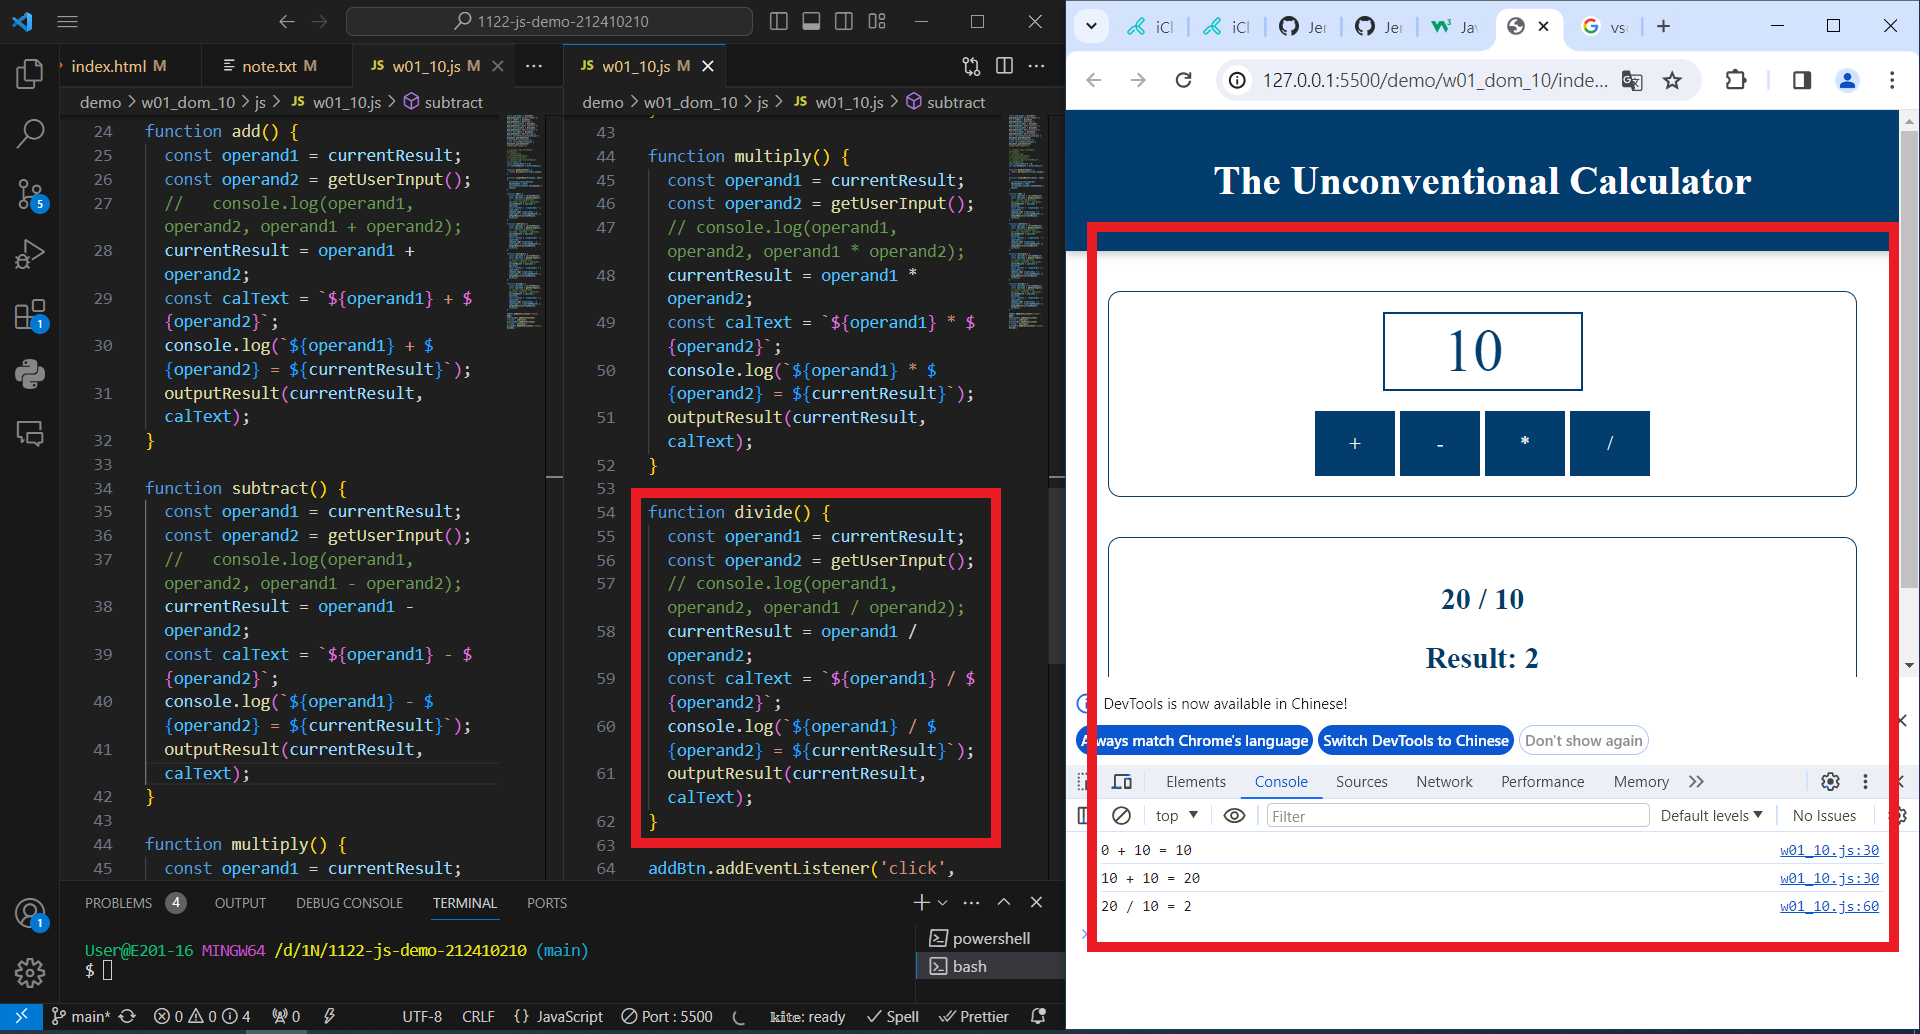
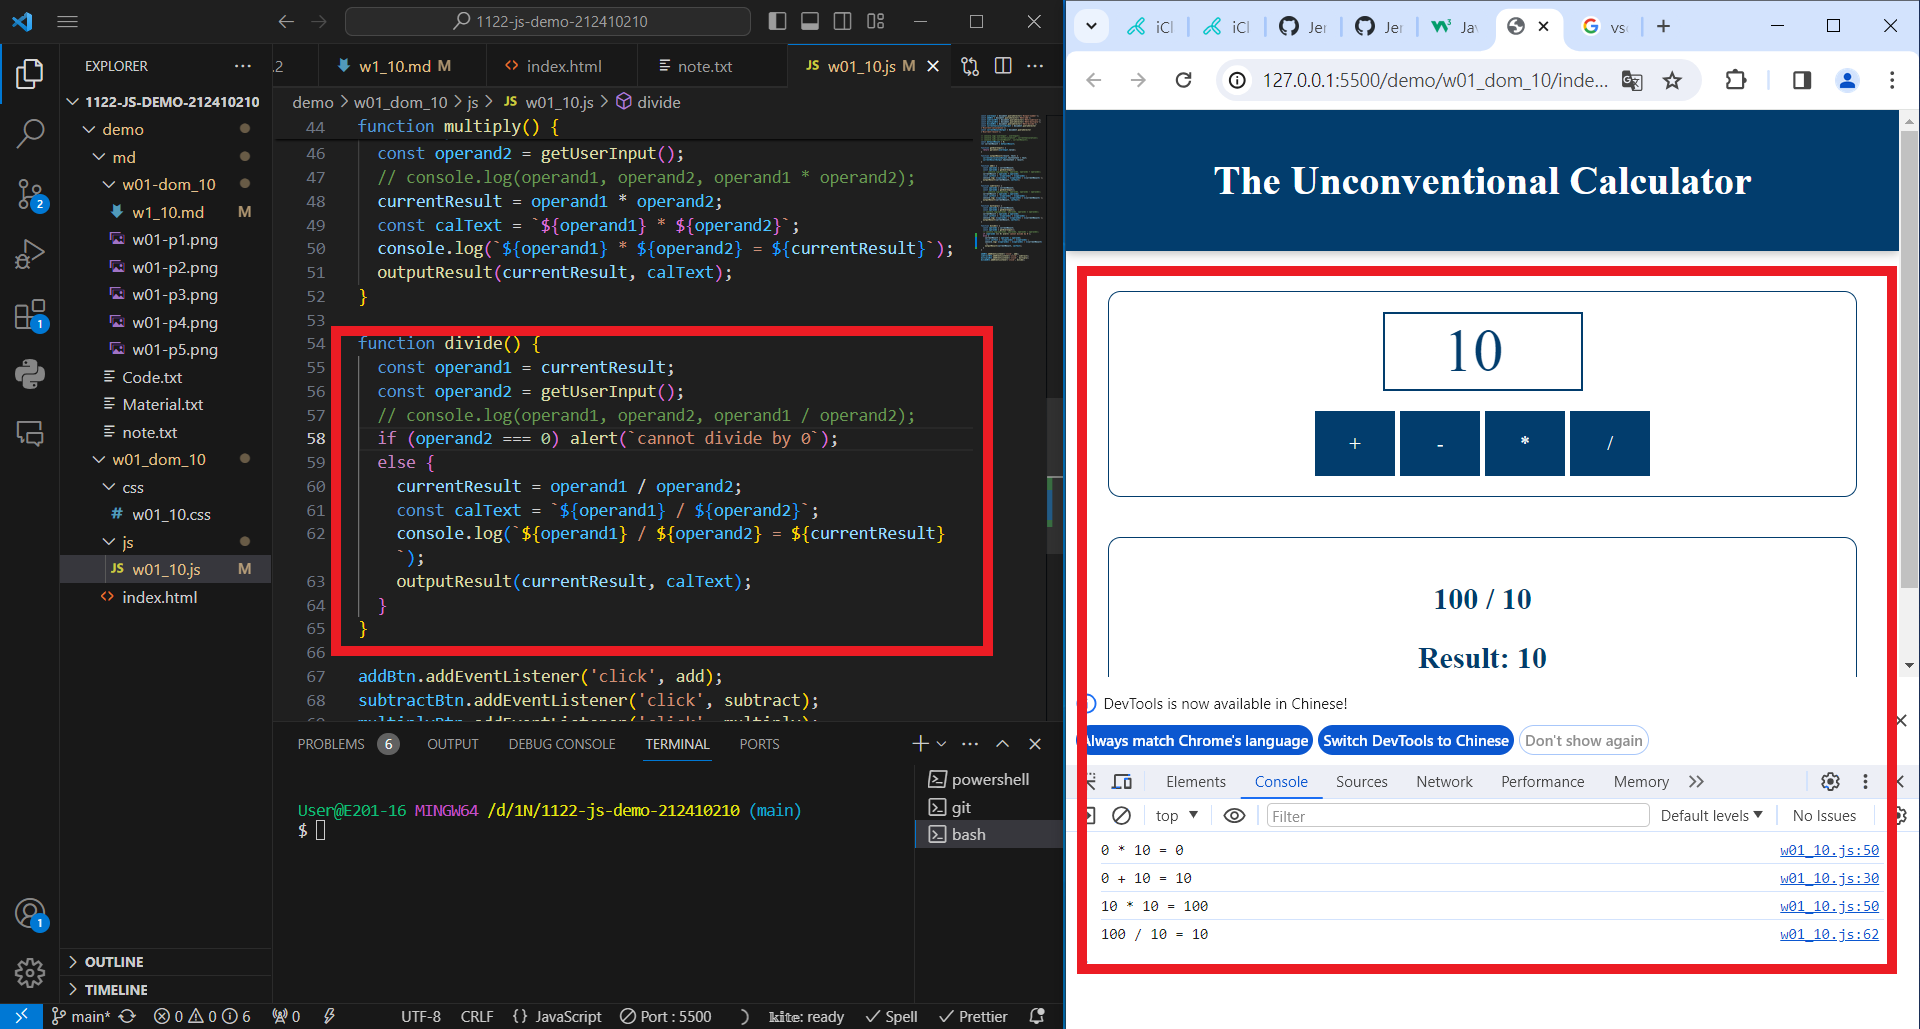
W01-P2: implement add function

diff --git a/demo/w01_dom_10/js/w01_10.js b/demo/w01_dom_10/js/w01_10.js
@@ -55,10 +55,13 @@ function divide() {
   const operand1 = currentResult;
   const operand2 = getUserInput();
   // console.log(operand1, operand2, operand1 / operand2);
-  currentResult = operand1 / operand2;
-  const calText = `${operand1} / ${operand2}`;
-  console.log(`${operand1} / ${operand2} = ${currentResult}`);
-  outputResult(currentResult, calText);
+  if (operand2 === 0) alert(`cannot divide by 0`);
+  else {
+    currentResult = operand1 / operand2;
+    const calText = `${operand1} / ${operand2}`;
+    console.log(`${operand1} / ${operand2} = ${currentResult}`);
+    outputResult(currentResult, calText);
+  }
 }
 
 addBtn.addEventListener('click', add);

diff --git a/demo/md/w01-dom_10/w1_10.md b/demo/md/w01-dom_10/w1_10.md
@@ -20,6 +20,12 @@ fd05f6f “JerryJiang1015” Thu Feb 22 19:35:27 2024 +0800  W01-P1 : Show the w
 
 ![](w01-p3.png)
 
+```
+git log --pretty=format:"%h%x09%an%x09%ad%x09%s" --after="2024-02-21"
+46070ae “JerryJiang1015” Thu Feb 22 21:14:20 2024 +0800  W01-P3: implement subtract function
+fd05f6f “JerryJiang1015” Thu Feb 22 19:35:27 2024 +0800  W01-P1 : Show the wo1-dom title
+```
+
 ### W01-P4: implement multiply function
 
 ![](w01-p4.png)
@@ -27,8 +33,3 @@ fd05f6f “JerryJiang1015” Thu Feb 22 19:35:27 2024 +0800  W01-P1 : Show the w
 ### W01-P5: implement divide function
 
 ![](w01-p5.png)
-
-```
-git log --pretty=format:"%h%x09%an%x09%ad%x09%s" --after="2024-02-21"
-fd05f6f “JerryJiang1015” Thu Feb 22 19:35:27 2024 +0800  W01-P1 : Show the wo1-dom title
-```
